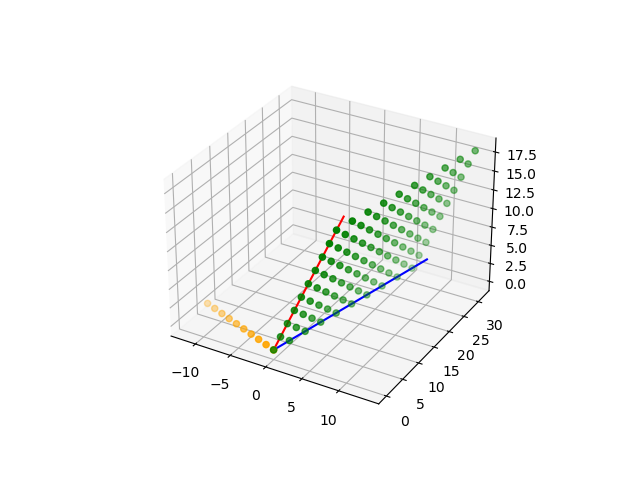
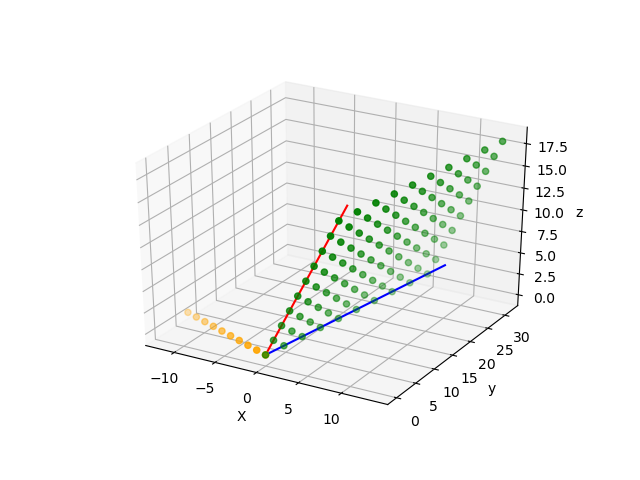
.

diff --git a/eqDimNullA_NullAT/eqDimNullA_NullAT.py b/eqDimNullA_NullAT/eqDimNullA_NullAT.py
@@ -1,0 +1,29 @@
+"""
+dimension of the column space equals the dimension of the row space
+"""
+
+
+import matplotlib.pyplot as plt
+from mpl_toolkits.mplot3d import Axes3D
+import numpy as np
+import pdb
+
+v1 = np.array([[1], [2], [3]])*5
+v2 = np.array([[2], [5], [1]])*5
+v3 = 0.5*v1+0.3*v2
+
+fig = plt.figure()
+ax = fig.add_subplot(111, projection='3d')
+
+ax.plot([0, v1[0]], [0, v1[1]], [0, v1[2]], color='red')
+ax.plot([0, v2[0]], [0, v2[1]], [0, v2[2]], color='red')
+ax.plot([0, v3[0]], [0, v3[1]], [0, v3[2]], color='red')
+
+
+ax.plot([0, v1[0]], [0, v2[0]], [0, v3[0]], color='blue')
+ax.plot([0, v1[1]], [0, v2[1]], [0, v3[1]], color='blue')
+ax.plot([0, v1[2]], [0, v2[2]], [0, v3[2]], color='blue')
+
+
+plt.show()
+fig.savefig('fig.png')

diff --git a/nullSpace_Range/nullandrange3d.py b/nullSpace_Range/nullandrange3d.py
@@ -51,5 +51,8 @@ for i in range(len(x3)):
 ax.scatter(null[0], null[1], null[2], color='orange')
 ax.set_aspect('auto')
 
+
+ax.set(xlabel='X', ylabel='y', zlabel='z')
+
 # plt.show()
 fig.savefig('nullandrange.png')
